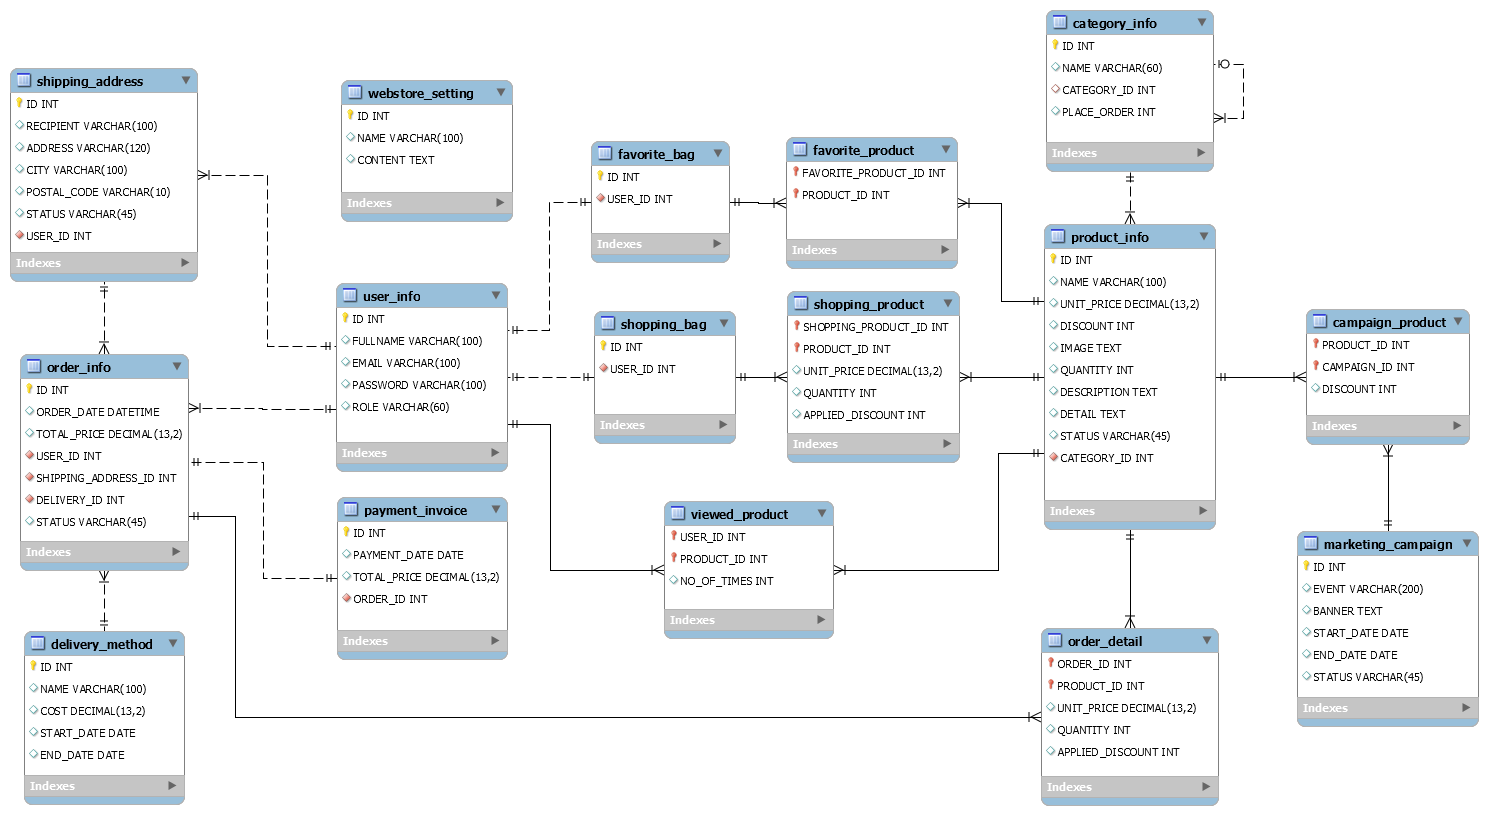
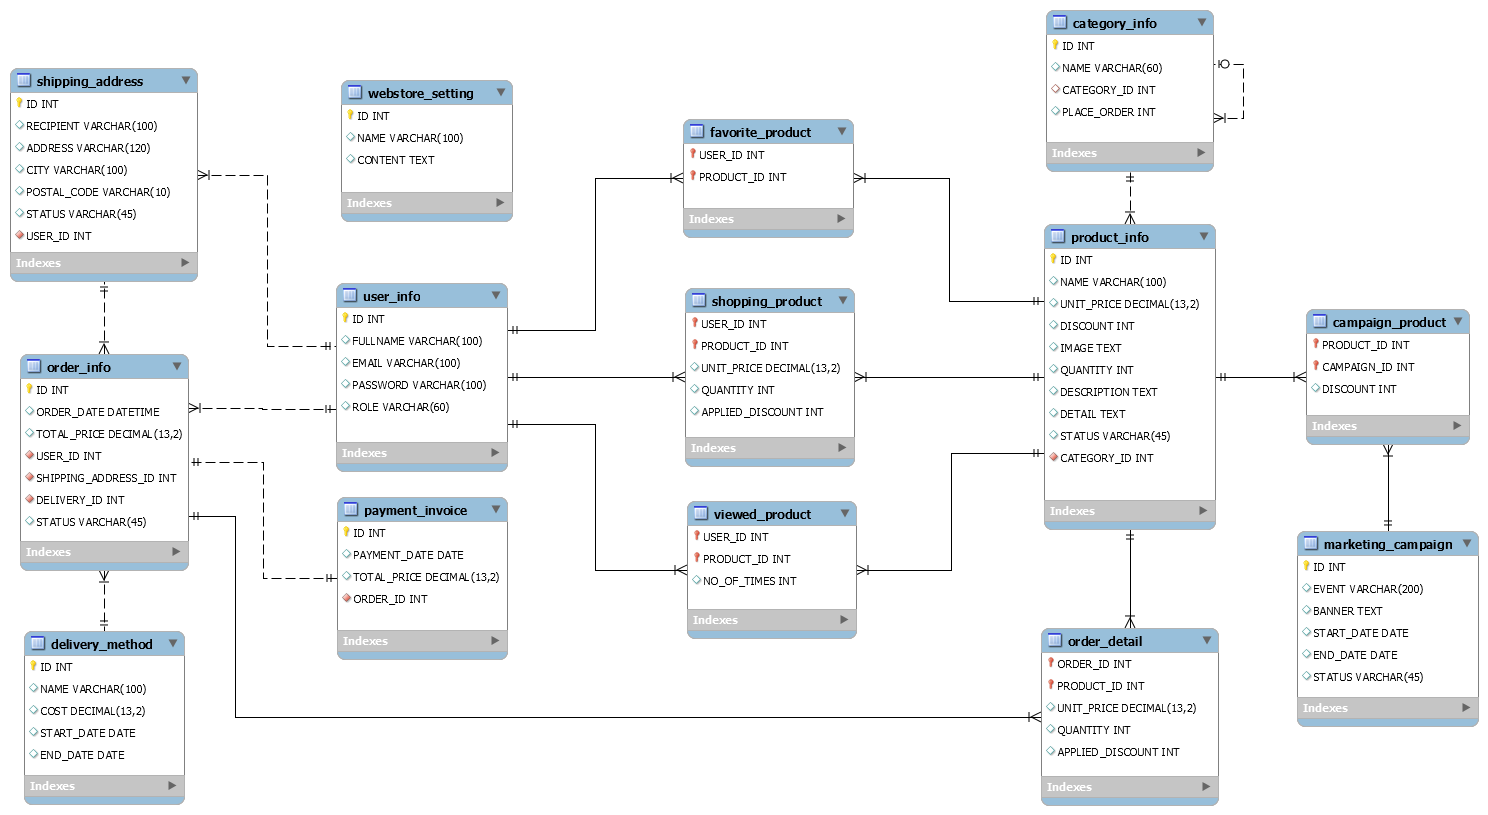
database changed!

diff --git a/src/main/java/com/jennifer/entity/UserInfo.java b/src/main/java/com/jennifer/entity/UserInfo.java
@@ -1,8 +1,6 @@
 package com.jennifer.entity;
 
-import com.fasterxml.jackson.annotation.JsonIdentityInfo;
 import com.fasterxml.jackson.annotation.JsonIgnore;
-import com.fasterxml.jackson.annotation.ObjectIdGenerators;
 
 import javax.persistence.*;
 import java.util.ArrayList;
@@ -51,12 +49,12 @@ public class UserInfo {
     private List<OrderInfo> orderInfos = new ArrayList<>();
 
     @JsonIgnore
-    @OneToOne(mappedBy = "userInfo")
-    private FavoriteBag favoriteBag;
+    @ManyToMany(mappedBy = "userInfos", cascade = CascadeType.ALL)
+    private List<ProductInfo> productInfos = new ArrayList<>();
 
     @JsonIgnore
-    @OneToOne(mappedBy = "userInfo")
-    private ShoppingBag shoppingBag;
+    @OneToMany(mappedBy = "primaryKey.userInfo", cascade = CascadeType.ALL)
+    private List<ShoppingProduct> shoppingProducts = new ArrayList<>();
 
     @JsonIgnore
     @OneToMany(mappedBy = "primaryKey.userInfo", cascade = CascadeType.ALL)
@@ -129,20 +127,20 @@ public class UserInfo {
         this.orderInfos = orderInfos;
     }
 
-    public FavoriteBag getFavoriteBag() {
-        return favoriteBag;
+    public List<ProductInfo> getProductInfos() {
+        return productInfos;
     }
 
-    public void setFavoriteBag(FavoriteBag favoriteBag) {
-        this.favoriteBag = favoriteBag;
+    public void setProductInfos(List<ProductInfo> productInfos) {
+        this.productInfos = productInfos;
     }
 
-    public ShoppingBag getShoppingBag() {
-        return shoppingBag;
+    public List<ShoppingProduct> getShoppingProducts() {
+        return shoppingProducts;
     }
 
-    public void setShoppingBag(ShoppingBag shoppingBag) {
-        this.shoppingBag = shoppingBag;
+    public void setShoppingProducts(List<ShoppingProduct> shoppingProducts) {
+        this.shoppingProducts = shoppingProducts;
     }
 
     public List<ViewedProduct> getViewedProducts() {

diff --git a/src/main/java/com/jennifer/entity/ShoppingProductId.java b/src/main/java/com/jennifer/entity/ShoppingProductId.java
@@ -16,7 +16,7 @@ class ShoppingProductId implements Serializable {
     private ProductInfo productInfo;
 
     @ManyToOne(cascade = CascadeType.ALL)
-    private ShoppingBag shoppingBag;
+    private UserInfo userInfo;
 
     ProductInfo getProductInfo() {
         return productInfo;
@@ -26,12 +26,12 @@ class ShoppingProductId implements Serializable {
         this.productInfo = productInfo;
     }
 
-    ShoppingBag getShoppingBag() {
-        return shoppingBag;
+    public UserInfo getUserInfo() {
+        return userInfo;
     }
 
-    void setShoppingBag(ShoppingBag shoppingBag) {
-        this.shoppingBag = shoppingBag;
+    public void setUserInfo(UserInfo userInfo) {
+        this.userInfo = userInfo;
     }
 
     @Override
@@ -42,13 +42,13 @@ class ShoppingProductId implements Serializable {
         ShoppingProductId that = (ShoppingProductId) o;
 
         if (!getProductInfo().equals(that.getProductInfo())) return false;
-        return getShoppingBag().equals(that.getShoppingBag());
+        return getUserInfo().equals(that.getUserInfo());
     }
 
     @Override
     public int hashCode() {
         int result = getProductInfo().hashCode();
-        result = 31 * result + getShoppingBag().hashCode();
+        result = 31 * result + getUserInfo().hashCode();
         return result;
     }
 }

diff --git a/src/main/java/com/jennifer/entity/ProductInfo.java b/src/main/java/com/jennifer/entity/ProductInfo.java
@@ -70,8 +70,8 @@ public class ProductInfo {
 
     @JsonIgnore
     @ManyToMany(cascade = CascadeType.ALL)
-    @JoinTable(name = "favorite_product", joinColumns = @JoinColumn(name = "PRODUCT_ID"), inverseJoinColumns = @JoinColumn(name = "FAVORITE_PRODUCT_ID"))
-    private List<FavoriteBag> favoriteBags = new ArrayList<>();
+    @JoinTable(name = "favorite_product", joinColumns = @JoinColumn(name = "PRODUCT_ID"), inverseJoinColumns = @JoinColumn(name = "USER_ID"))
+    private List<UserInfo> userInfos = new ArrayList<>();
 
     public ProductInfo() {
     }
@@ -205,12 +205,12 @@ public class ProductInfo {
         this.campaignProducts = campaignProducts;
     }
 
-    public List<FavoriteBag> getFavoriteBags() {
-        return favoriteBags;
+    public List<UserInfo> getUserInfos() {
+        return userInfos;
     }
 
-    public void setFavoriteBags(List<FavoriteBag> favoriteBags) {
-        this.favoriteBags = favoriteBags;
+    public void setUserInfos(List<UserInfo> userInfos) {
+        this.userInfos = userInfos;
     }
 
     public List<ViewedProduct> getViewedProducts() {

diff --git a/src/main/java/com/jennifer/entity/ShoppingProduct.java b/src/main/java/com/jennifer/entity/ShoppingProduct.java
@@ -11,7 +11,7 @@ import java.math.BigDecimal;
 @Table(name = "shopping_product")
 @AssociationOverrides({
         @AssociationOverride(name = "primaryKey.productInfo", joinColumns = @JoinColumn(name = "PRODUCT_ID")),
-        @AssociationOverride(name = "primaryKey.shoppingBag", joinColumns = @JoinColumn(name = "SHOPPING_PRODUCT_ID"))
+        @AssociationOverride(name = "primaryKey.userInfo", joinColumns = @JoinColumn(name = "USER_ID"))
 })
 public class ShoppingProduct {
 
@@ -46,12 +46,12 @@ public class ShoppingProduct {
     }
 
     @Transient
-    public ShoppingBag getShoppingBag(){
-        return getPrimaryKey().getShoppingBag();
+    public UserInfo getUserInfo(){
+        return getPrimaryKey().getUserInfo();
     }
 
-    public void setShoppingBag(ShoppingBag shoppingBag){
-        getPrimaryKey().setShoppingBag(shoppingBag);
+    public void setUserInfo(UserInfo userInfo){
+        getPrimaryKey().setUserInfo(userInfo);
     }
 
     public BigDecimal getUnitPrice() {
